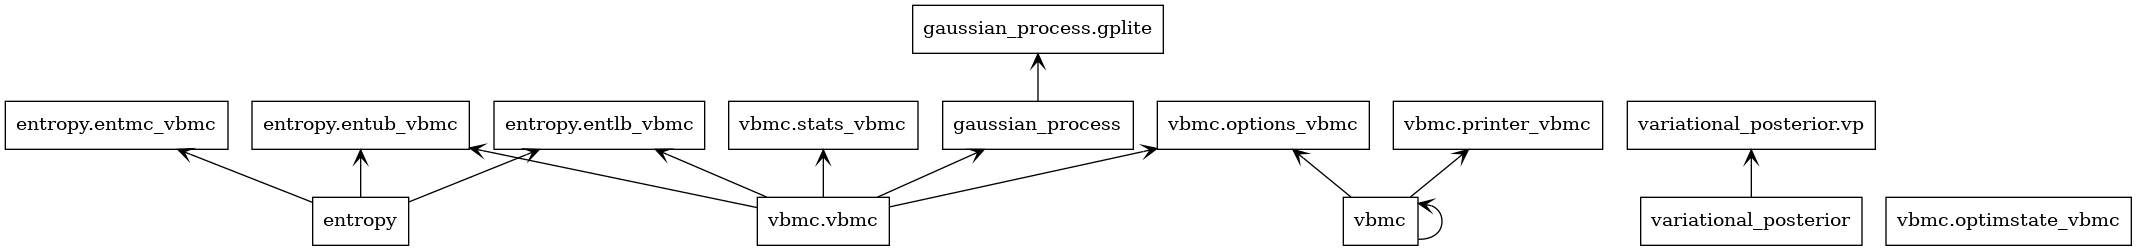
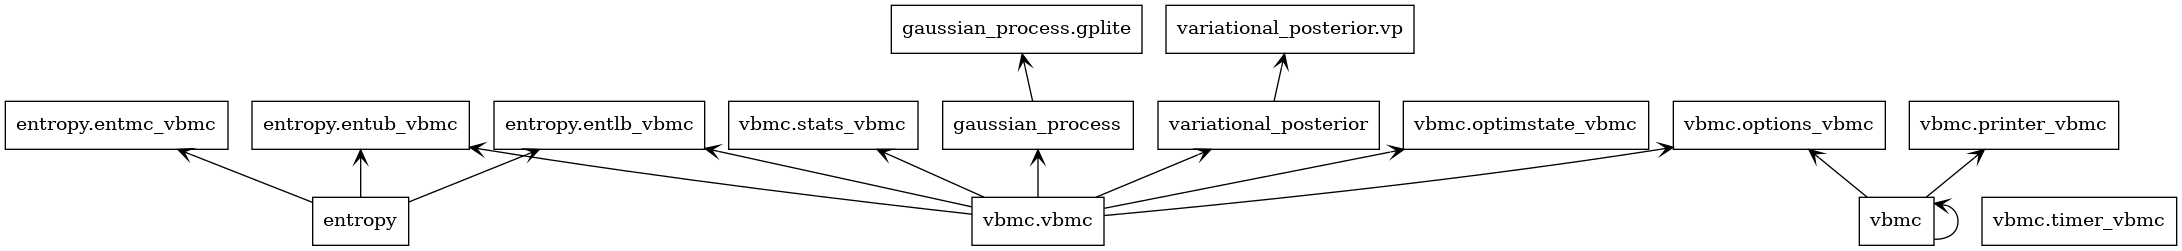
fix: diagram + import

diff --git a/initialCodePort/vbmc/__init__.py b/initialCodePort/vbmc/__init__.py
@@ -1,6 +1,6 @@
 # __init__.py
-from .optimstate import OptimState
+from .optimstate_vbmc import OptimState
 from .options_vbmc import Options_VBMC
 from .printer_vbmc import Printer_VBMC
-from .stats import Stats
+from .stats_vbmc import Stats
 from .vbmc import VBMC
